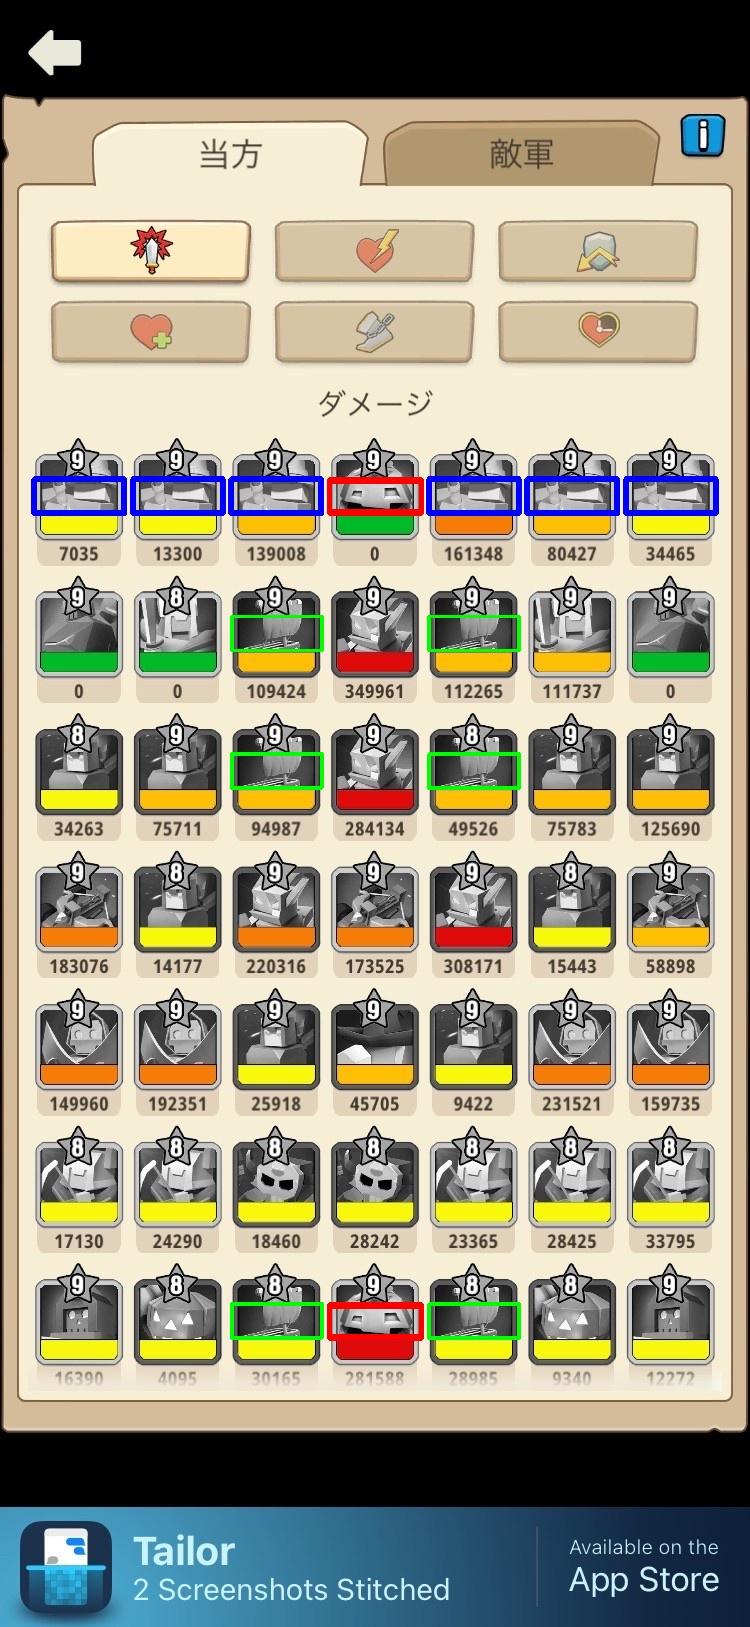
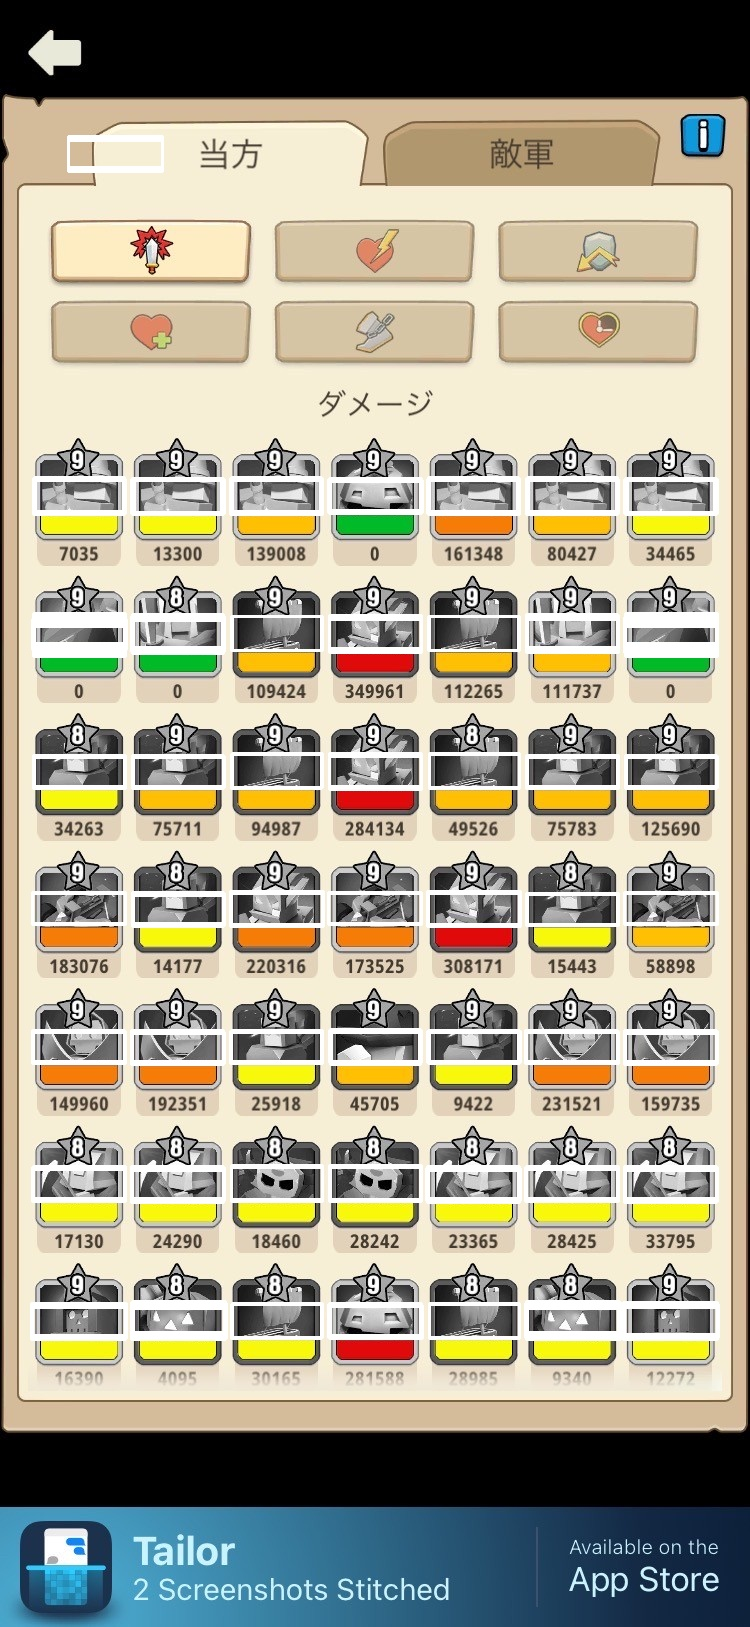
add troops temp images

diff --git a/photo2char.py b/photo2char.py
@@ -9,16 +9,34 @@ TEMP_IMG_DIR = "temp_img"
 
 source_img_path = os.path.join(ROOT_PATH, SOURCE_IMG_DIR, "A.jpg")
 
-temp_iwa_path = os.path.join(ROOT_PATH, TEMP_IMG_DIR, "IWA.jpg")
-temp_minarai_path = os.path.join(ROOT_PATH, TEMP_IMG_DIR, "MINARAI.jpg")
+temp_assassin_path = os.path.join(ROOT_PATH, TEMP_IMG_DIR, "ASSASSIN.jpg")
 temp_fune_path = os.path.join(ROOT_PATH, TEMP_IMG_DIR, "FUNE.jpg")
+temp_goburin_path = os.path.join(ROOT_PATH, TEMP_IMG_DIR, "GOBURIN.jpg")
+temp_gorem_path = os.path.join(ROOT_PATH, TEMP_IMG_DIR, "GOREM.jpg")
+temp_hone_path = os.path.join(ROOT_PATH, TEMP_IMG_DIR, "HONE.jpg")
+temp_hyoketu_path = os.path.join(ROOT_PATH, TEMP_IMG_DIR, "HYOKETU.jpg")
+temp_iwa_path = os.path.join(ROOT_PATH, TEMP_IMG_DIR, "IWA.jpg")
+temp_kemono_path = os.path.join(ROOT_PATH, TEMP_IMG_DIR, "KEMONO.jpg")
+temp_kenshi_path = os.path.join(ROOT_PATH, TEMP_IMG_DIR, "KENSHI.jpg")
+temp_majo_path = os.path.join(ROOT_PATH, TEMP_IMG_DIR, "MAJO.jpg")
+temp_minarai_path = os.path.join(ROOT_PATH, TEMP_IMG_DIR, "MINARAI.jpg")
+temp_pumpkin_path = os.path.join(ROOT_PATH, TEMP_IMG_DIR, "PUMPKIN.jpg")
+temp_toteki_path = os.path.join(ROOT_PATH, TEMP_IMG_DIR, "TOTEKI.jpg")
+temp_varistor_path = os.path.join(ROOT_PATH, TEMP_IMG_DIR, "VARISTOR.jpg")
+temp_yasha_path = os.path.join(ROOT_PATH, TEMP_IMG_DIR, "YASHA.jpg")
+temp_zombie_path = os.path.join(ROOT_PATH, TEMP_IMG_DIR, "ZOMBIE.jpg")
+
+temp_icemeiji_path = os.path.join(ROOT_PATH, TEMP_IMG_DIR, "ICEMEIJI.jpg")
+temp_syudo_path = os.path.join(ROOT_PATH, TEMP_IMG_DIR, "SYUDO.jpg")
+temp_pmeiji_path = os.path.join(ROOT_PATH, TEMP_IMG_DIR, "PMEIJI.jpg")
+
 
 def matching(src_img, temp_img, out_img, color, char_name):
     width, height = temp_img.shape[::-1]
 
     #テンプレートマッチングの実行(比較方法cv2.TM_CCORR_NORMED)
     result = cv2.matchTemplate(src_img, temp_img, cv2.TM_CCORR_NORMED)
-    loc = numpy.where (result > 0.96)
+    loc = numpy.where (result > 0.965)
     for pt in zip(*loc[::-1]):
         # pt[0], pt[1] がそれぞれ検出された画像の左上のx,y座標となるので
         # テンプレートを一致させた分の幅・高さを足して、1pixelの赤線で矩形を書く
@@ -32,13 +50,45 @@ def main():
     img_gray = cv2.imread(source_img_path,0)
 
     # 検索ネタ読み込み
-    temp_iwa = cv2.imread(temp_iwa_path, 0)
-    temp_minarai = cv2.imread(temp_minarai_path, 0)
+    temp_assassin = cv2.imread(temp_assassin_path, 0)
     temp_fune = cv2.imread(temp_fune_path, 0)
+    temp_goburin = cv2.imread(temp_goburin_path, 0)
+    temp_gorem = cv2.imread(temp_gorem_path, 0)
+    temp_hone = cv2.imread(temp_hone_path, 0)
+    temp_hyoketu = cv2.imread(temp_hyoketu_path, 0)
+    temp_iwa = cv2.imread(temp_iwa_path, 0)
+    temp_kemono = cv2.imread(temp_kemono_path, 0)
+    temp_kenshi = cv2.imread(temp_kenshi_path, 0)
+    temp_majo = cv2.imread(temp_majo_path, 0)
+    temp_minarai = cv2.imread(temp_minarai_path, 0)
+    temp_pumpkin = cv2.imread(temp_pumpkin_path, 0)
+    temp_toteki = cv2.imread(temp_toteki_path, 0)
+    temp_varistor = cv2.imread(temp_varistor_path, 0)
+    temp_yasha = cv2.imread(temp_yasha_path, 0)
+    temp_zombie = cv2.imread(temp_zombie_path, 0)
+    temp_icemeiji = cv2.imread(temp_icemeiji_path, 0)
+    temp_pcemeiji = cv2.imread(temp_pmeiji_path, 0)
+    temp_syudo = cv2.imread(temp_syudo_path, 0)
 
-    matching(img_gray, temp_iwa, img, (0, 0, 255), "岩")
-    matching(img_gray, temp_minarai, img, (255, 0, 0), "習")
-    matching(img_gray, temp_fune, img, (0, 255, 0), "船")
+    matching(img_gray, temp_assassin, img, (255, 255, 255), "ア")
+    matching(img_gray, temp_fune, img, (255, 255, 255), "船")
+    matching(img_gray, temp_goburin, img, (255, 255, 255), "砲")
+    matching(img_gray, temp_gorem, img, (255, 255, 255), "ゴ")
+    matching(img_gray, temp_hone, img, (255, 255, 255), "骨")
+    matching(img_gray, temp_hyoketu, img, (255, 255, 255), "弓")
+    matching(img_gray, temp_iwa, img, (255, 255, 255), "岩")
+    matching(img_gray, temp_kemono, img, (255, 255, 255), "獣")
+    matching(img_gray, temp_kenshi, img, (255, 255, 255), "剣")
+    matching(img_gray, temp_majo, img, (255, 255, 255), "魔")
+    matching(img_gray, temp_minarai, img, (255, 255, 255), "習")
+    matching(img_gray, temp_pumpkin, img, (255, 255, 255), "パ")
+    matching(img_gray, temp_toteki, img, (255, 255, 255), "投")
+    matching(img_gray, temp_varistor, img, (255, 255, 255), "バ")
+    matching(img_gray, temp_yasha, img, (255, 255, 255), "夜")
+    matching(img_gray, temp_zombie, img, (255, 255, 255), "ゾ")
+    matching(img_gray, temp_icemeiji, img, (255, 255, 255), "凍")
+    matching(img_gray, temp_pcemeiji, img, (255, 255, 255), "プ")
+    matching(img_gray, temp_syudo, img, (255, 255, 255), "修")
 
     # 結果を表示
     # cv2.namedWindow('result', cv2.WINDOW_NORMAL)
